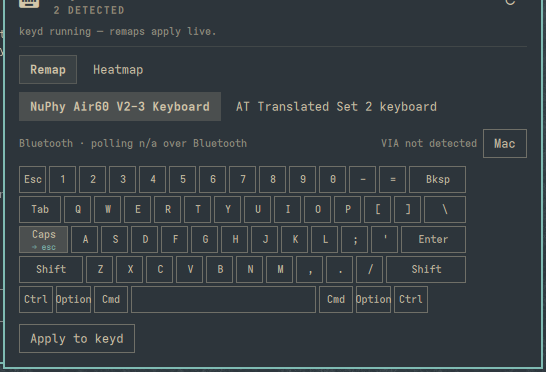
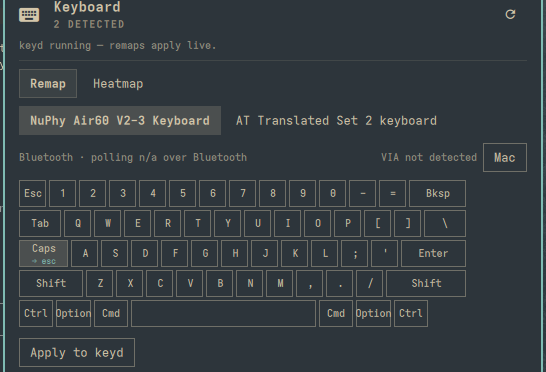
Namespace the plugin id and add a marketplace preview image
An unrelated GitHub repo already exists with the same name (a different
plugin, chrispository/omakeys), and 96% of listings on the Omarchy plugin
marketplace use a namespaced id (author.plugin) rather than a bare one.
Renamed the manifest id from "omakeys" to "akashpai11.omakeys" to avoid
any future collision/confusion, and updated moduleName/ipcTarget to match
(moduleName is the literal key the shell uses to look up the plugin's
service, so it has to track the manifest id exactly).

Also added preview.png, the marketplace's expected root-level thumbnail.

Claude-Session: https://claude.ai/code/session_012SqQ7VnPJFVtTG5W3T4R4N

Changed region(s): [[0.0, 0.0, 0.9963, 1.0], [0.9029, 0.0, 0.9652, 0.0591]]

diff --git a/Panel.qml b/Panel.qml
@@ -9,8 +9,8 @@ import "KeydKeys.js" as KeydKeys
 
 Panel {
   id: root
-  moduleName: "omakeys"
-  ipcTarget: "omakeys"
+  moduleName: "akashpai11.omakeys"
+  ipcTarget: "akashpai11.omakeys"
   readonly property var service: bar && bar.shell ? bar.shell.serviceFor(moduleName) : null
   readonly property var snapshot: service ? service.snapshot : ({ keyboards: [], keyd: { installed: false, active: false } })
   readonly property var primary: service ? service.primary : null

diff --git a/README.md b/README.md
@@ -81,7 +81,7 @@ watcher won't see edits inside a symlinked plugin folder.
 
 ```bash
 omarchy plugin validate ~/.config/omarchy/plugins/omakeys
-omarchy plugin enable omakeys --section right
+omarchy plugin enable akashpai11.omakeys --section right
 ```
 
 Most QML/script edits hot-reload live. Changes to `PanelWindow`-level
@@ -89,7 +89,7 @@ geometry (contentWidth/contentHeight) don't reliably apply via hot-reload —
 run `omarchy restart shell` after those before judging the result.
 
 ```bash
-omarchy-shell omakeys toggle   # open/close the panel
+omarchy-shell akashpai11.omakeys toggle   # open/close the panel
 python3 scripts/detect_devices.py | python3 -m json.tool
 python3 scripts/heatmap_query.py 1 | python3 -m json.tool
 ```
